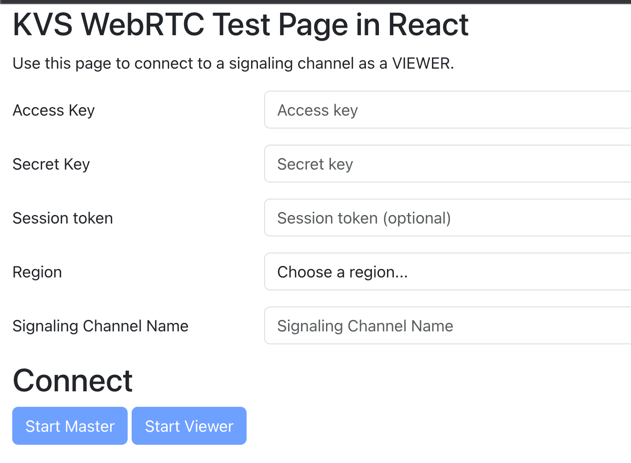
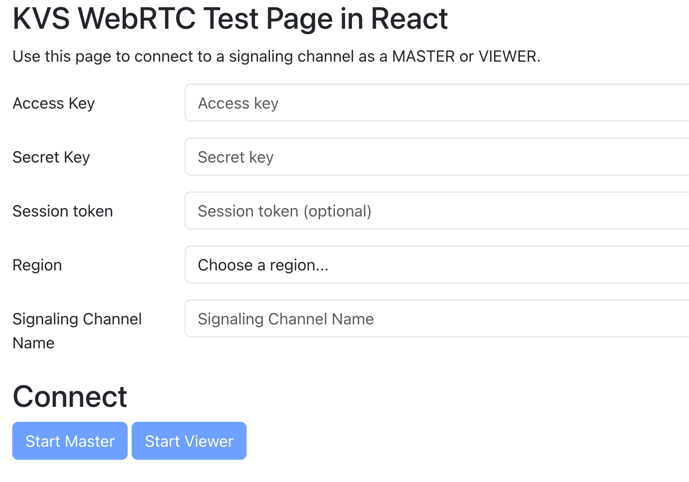
Adjust wording on configuration screen

diff --git a/webrtc-js/src/App.tsx b/webrtc-js/src/App.tsx
@@ -110,7 +110,7 @@ class App extends React.Component<{}, AppState> {
                     <Container fluid className="m-lg-auto">
                         <h2>KVS WebRTC Test Page in React</h2>
                         <p>Use this page to connect to a signaling channel as a
-                            VIEWER.</p>
+                            MASTER or VIEWER.</p>
 
                         <CredentialsProvider
                             credentialsChanged={this.onUpdatedCredentials}/>
